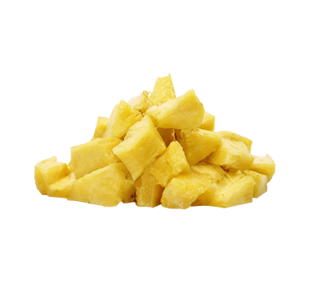
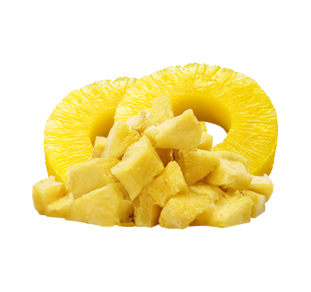
pizza toppings

diff --git a/docs/pizza.html b/docs/pizza.html
@@ -24,7 +24,7 @@
       <div id="menu-trigger" class="menu-trigger animated rotateIn">
           <span></span>
           </div>
-      <div id="mainNav" class="mainNav2 animated slideInDown">
+      <div class="mainNav2 animated slideInDown">
         <a href="index.html"><li class="link fa fa-home" aria-hidden="true"></li></a> 
         <a href="pizza.html"><li class="link pizza">pizza</li></a>
         <a href="#"><li class="link subs">subs</li></a>
@@ -94,60 +94,90 @@
   <div class="container">
     <div class="row">
       <div class="col-md-3">
-        <img class="top-img" src="img/toppings/X.png">
-      </div>
-      <div class="col-md-3">
-        <img class="top-img" src="img/toppings/gp.png">
+        <img class="top-img" style="height: 130px;" src="img/toppings/ch.png">
+        <h4 class="textTop">Cheese</h4>
       </div>
       <div class="col-md-3">
         <img class="top-img"  style="height: 120px;" src="img/toppings/mush.png">
+        <h4 class="textTop">Mushrooms</h4>
       </div>
       <div class="col-md-3">
+          <img class="top-img" src="img/toppings/gp.png">
+          <h4 class="textTop">Green Peppers</h4>
+        </div>
+      <div class="col-md-3">
         <img class="top-img" src="img/toppings/pa.png">
+        <h4 class="textTop">Pineapple</h4>
       </div>
     </div>
     <div class="row">
       <div class="col-md-3">
         <img class="top-img" src="img/toppings/on.png">
+        <h4 class="textTop">Onions</h4>
       </div>
       <div class="col-md-3">
         <img class="top-img" src="img/toppings/rdOn.png">
+        <h4 class="textTop">Red Onions</h4>
       </div>
       <div class="col-md-3">
         <img class="top-img" src="img/toppings/feta.png">
+        <h4 class="textTop">Feta Cheese</h4>
       </div>
       <div class="col-md-3">
-        <img class="top-img" src="img/toppings/tom.png">
-      </div>
+          <img class="top-img" src="img/toppings/hp.png">
+          <h4 class="textTop">Hot Peppers</h4>
+        </div>
     </div>
     <div class="row">
+      <div class="col-md-3">
+        <img class="top-img" src="img/toppings/bOl.png">
+        <h4 class="textTop">Black Olives</h4>
+      </div>
       <div class="col-md-3">
         <img class="top-img" src="img/toppings/ol.png">
+        <h4 class="textTop">Green Olives</h4>
       </div>
       <div class="col-md-3">
-        <img class="top-img" src="img/toppings/bOl.png">
-      </div>
-      <div class="col-md-3">
-        <img class="top-img" src="img/toppings/bOl.png">
-      </div>
-      <div class="col-md-3">
-        <img class="top-img" style="height: 100px;" src="img/toppings/ch.png">
-      </div>
+          <img class="top-img" src="img/toppings/btom.png">
+          <h4 class="textTop">Bruschetta Tomatoes</h4>
+        </div>
+        <div class="col-md-3">
+            <img class="top-img" src="img/toppings/tom.png">
+            <h4 class="textTop">Sliced Tomatoes</h4>
+          </div>
     </div>
+    
     <div class="row">
       <div class="col-md-3">
+        <img class="top-img" src="img/toppings/X.png">
+        <h4 class="textTop">Pepperoni</h4>
+      </div>
+      <div class="col-md-3">
         <img class="top-img" src="img/toppings/bac.png">
+        <h4 class="textTop">Bacon</h4>
       </div>
       <div class="col-md-3">
-        <img class="top-img" src="img/toppings/ham.png">
+        <img class="top-img" style="height: 140px;" src="img/toppings/IS.png">
+        <h4 class="textTop">Italian Sausage</h4>
       </div>
       <div class="col-md-3">
-        <img class="top-img" src="img/toppings/gb.png">
+        <img class="top-img" style="height:160px;" src="img/toppings/ham.png">
+        <h4 class="textTop">Ham</h4>
       </div>
       <div class="col-md-3">
-        <img class="top-img" src="img/toppings/sal.png">
+        <img class="top-img centerX" src="img/toppings/gb.png">
+        <h4 class="textTop">Ground Beer</h4>
+      </div>
+      <div class="col-md-3">
+        <img class="top-img centerX" src="img/toppings/sal.png">
+        <h4 class="textTop">Salomi</h4>
+      </div>
+      <div class="col-md-3">
+        <img class="top-img centerX" src="img/toppings/chicken.png">
+        <h4 class="textTop">Chicken</h4>
       </div>
     </div>
+
   </div>
 </section>
 

diff --git a/src/pizza.html b/src/pizza.html
@@ -24,7 +24,7 @@
       <div id="menu-trigger" class="menu-trigger animated rotateIn">
           <span></span>
           </div>
-      <div id="mainNav" class="mainNav2 animated slideInDown">
+      <div class="mainNav2 animated slideInDown">
         <a href="index.html"><li class="link fa fa-home" aria-hidden="true"></li></a> 
         <a href="pizza.html"><li class="link pizza">pizza</li></a>
         <a href="#"><li class="link subs">subs</li></a>
@@ -94,60 +94,90 @@
   <div class="container">
     <div class="row">
       <div class="col-md-3">
-        <img class="top-img" src="img/toppings/X.png">
-      </div>
-      <div class="col-md-3">
-        <img class="top-img" src="img/toppings/gp.png">
+        <img class="top-img" style="height: 130px;" src="img/toppings/ch.png">
+        <h4 class="textTop">Cheese</h4>
       </div>
       <div class="col-md-3">
         <img class="top-img"  style="height: 120px;" src="img/toppings/mush.png">
+        <h4 class="textTop">Mushrooms</h4>
       </div>
       <div class="col-md-3">
+          <img class="top-img" src="img/toppings/gp.png">
+          <h4 class="textTop">Green Peppers</h4>
+        </div>
+      <div class="col-md-3">
         <img class="top-img" src="img/toppings/pa.png">
+        <h4 class="textTop">Pineapple</h4>
       </div>
     </div>
     <div class="row">
       <div class="col-md-3">
         <img class="top-img" src="img/toppings/on.png">
+        <h4 class="textTop">Onions</h4>
       </div>
       <div class="col-md-3">
         <img class="top-img" src="img/toppings/rdOn.png">
+        <h4 class="textTop">Red Onions</h4>
       </div>
       <div class="col-md-3">
         <img class="top-img" src="img/toppings/feta.png">
+        <h4 class="textTop">Feta Cheese</h4>
       </div>
       <div class="col-md-3">
-        <img class="top-img" src="img/toppings/tom.png">
-      </div>
+          <img class="top-img" src="img/toppings/hp.png">
+          <h4 class="textTop">Hot Peppers</h4>
+        </div>
     </div>
     <div class="row">
+      <div class="col-md-3">
+        <img class="top-img" src="img/toppings/bOl.png">
+        <h4 class="textTop">Black Olives</h4>
+      </div>
       <div class="col-md-3">
         <img class="top-img" src="img/toppings/ol.png">
+        <h4 class="textTop">Green Olives</h4>
       </div>
       <div class="col-md-3">
-        <img class="top-img" src="img/toppings/bOl.png">
-      </div>
-      <div class="col-md-3">
-        <img class="top-img" src="img/toppings/bOl.png">
-      </div>
-      <div class="col-md-3">
-        <img class="top-img" style="height: 100px;" src="img/toppings/ch.png">
-      </div>
+          <img class="top-img" src="img/toppings/btom.png">
+          <h4 class="textTop">Bruschetta Tomatoes</h4>
+        </div>
+        <div class="col-md-3">
+            <img class="top-img" src="img/toppings/tom.png">
+            <h4 class="textTop">Sliced Tomatoes</h4>
+          </div>
     </div>
+    
     <div class="row">
       <div class="col-md-3">
+        <img class="top-img" src="img/toppings/X.png">
+        <h4 class="textTop">Pepperoni</h4>
+      </div>
+      <div class="col-md-3">
         <img class="top-img" src="img/toppings/bac.png">
+        <h4 class="textTop">Bacon</h4>
       </div>
       <div class="col-md-3">
-        <img class="top-img" src="img/toppings/ham.png">
+        <img class="top-img" style="height: 140px;" src="img/toppings/IS.png">
+        <h4 class="textTop">Italian Sausage</h4>
       </div>
       <div class="col-md-3">
-        <img class="top-img" src="img/toppings/gb.png">
+        <img class="top-img" style="height:160px;" src="img/toppings/ham.png">
+        <h4 class="textTop">Ham</h4>
       </div>
       <div class="col-md-3">
-        <img class="top-img" src="img/toppings/sal.png">
+        <img class="top-img centerX" src="img/toppings/gb.png">
+        <h4 class="textTop">Ground Beer</h4>
+      </div>
+      <div class="col-md-3">
+        <img class="top-img centerX" src="img/toppings/sal.png">
+        <h4 class="textTop">Salomi</h4>
+      </div>
+      <div class="col-md-3">
+        <img class="top-img centerX" src="img/toppings/chicken.png">
+        <h4 class="textTop">Chicken</h4>
       </div>
     </div>
+
   </div>
 </section>
 

diff --git a/docs/scss/pizza.scss b/docs/scss/pizza.scss
@@ -52,11 +52,23 @@ $blue-button: rgb(0, 81, 255);
     cursor: pointer;
 }
 
+.textTop {
+    color: white;
+    font-size: 18px;
+    letter-spacing: 1px;
+    font-weight: 400;
+    text-align: center;
+    margin-left: 50%;
+    transform: translateX(-50%);
+}
+
 
 
 
 .top-img {
     height: 150px;
+    margin-left: 50%;
+    transform: translateX(-50%);
 }
 #toppings {
     margin-top: 300px;

diff --git a/src/scss/pizza.scss b/src/scss/pizza.scss
@@ -52,11 +52,23 @@ $blue-button: rgb(0, 81, 255);
     cursor: pointer;
 }
 
+.textTop {
+    color: white;
+    font-size: 18px;
+    letter-spacing: 1px;
+    font-weight: 400;
+    text-align: center;
+    margin-left: 50%;
+    transform: translateX(-50%);
+}
+
 
 
 
 .top-img {
     height: 150px;
+    margin-left: 50%;
+    transform: translateX(-50%);
 }
 #toppings {
     margin-top: 300px;

diff --git a/docs/css/pizza.css b/docs/css/pizza.css
@@ -36,8 +36,19 @@
   width: 300px;
   cursor: pointer; }
 
+.textTop {
+  color: white;
+  font-size: 18px;
+  letter-spacing: 1px;
+  font-weight: 400;
+  text-align: center;
+  margin-left: 50%;
+  transform: translateX(-50%); }
+
 .top-img {
-  height: 150px; }
+  height: 150px;
+  margin-left: 50%;
+  transform: translateX(-50%); }
 
 #toppings {
   margin-top: 300px; }

diff --git a/src/css/pizza.css b/src/css/pizza.css
@@ -36,8 +36,19 @@
   width: 300px;
   cursor: pointer; }
 
+.textTop {
+  color: white;
+  font-size: 18px;
+  letter-spacing: 1px;
+  font-weight: 400;
+  text-align: center;
+  margin-left: 50%;
+  transform: translateX(-50%); }
+
 .top-img {
-  height: 150px; }
+  height: 150px;
+  margin-left: 50%;
+  transform: translateX(-50%); }
 
 #toppings {
   margin-top: 300px; }
